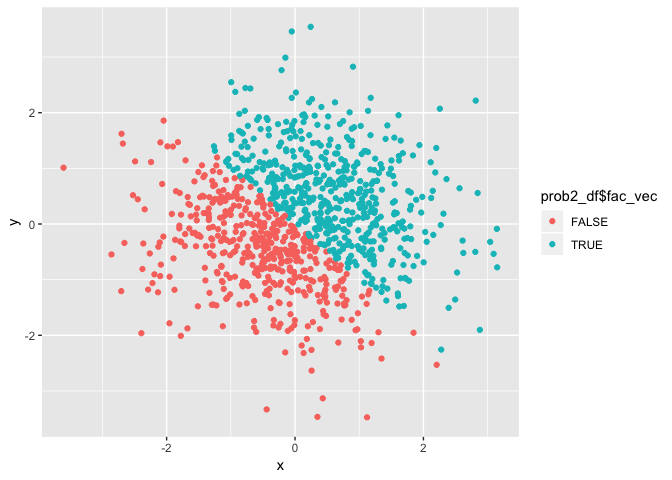
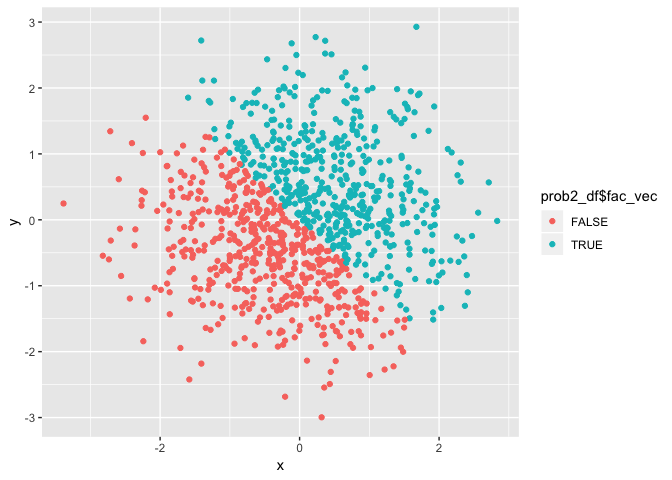
commiting again

diff --git a/HW1.md b/HW1.md
@@ -87,7 +87,7 @@ prob2_df = tibble(
 )
 ```
 
-My factor vector created above has 1000, a mean of 0.0569008, a median of `median(prob2_df$x)`, and a proportion of cases 0.531.
+My factor vector created above has 1000, a mean of 0.0158068, a median of `median(prob2_df$x)`, and a proportion of cases 0.494.
 
 Below is a scatterplot of x and y that colors the points based on the logical variable:
 
